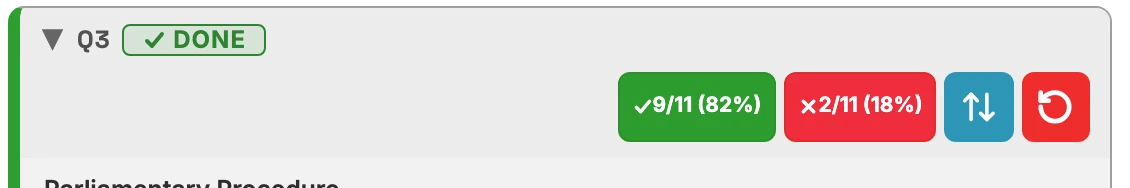
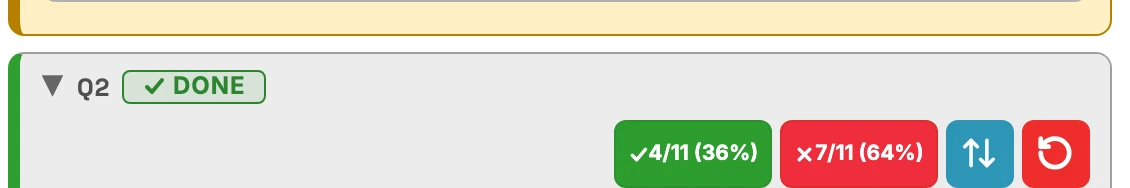
v1.29 Give Team Report its own section, rewritten as proper Q&A, and update the Crowd-Wisdom screenshot to a 4/11 vs 7/11 split

diff --git a/faq/index.html b/faq/index.html
@@ -257,6 +257,7 @@
         <a href="#wagers">Halftime &amp; Final Wager</a>
         <a href="#standings">Scores &amp; Standings</a>
         <a href="#final-results">Final Results &amp; Ties</a>
+        <a href="#team-report">Team Report</a>
         <a href="#craft-prize">Craft Prize Drawing</a>
         <a href="#exporting">Exporting</a>
         <a href="#autosave">Autosave &amp; Resume</a>
@@ -1049,15 +1050,115 @@
           </summary>
           <div class="faq-a">
             <p>
-              Tap/Click on the team's name — see <a href="#tips">Team Report</a> in Tips
-              &amp; Tricks.
+              Tap/Click on the team's name to open their
+              <a href="#team-report">Team Report</a> — a full round-by-round
+              breakdown, with the same Guess/Diff math this table uses
+              explained tile by tile.
+            </p>
+          </div>
+        </details>
+      </section>
+
+      <!-- ============================== TEAM REPORT ============================== -->
+      <section class="faq-section" id="team-report">
+        <h2 class="faq-section-title">Team Report</h2>
+        <p class="faq-section-sub">
+          A full round-by-round breakdown of exactly how one team's score
+          came together.
+        </p>
+
+        <details class="faq-item">
+          <summary>
+            <span class="faq-q-text">How do I open a team's Team Report?</span><span class="faq-q-arrow"
+              >▶</span
+            >
+          </summary>
+          <div class="faq-a">
+            <p>
+              Tap or click their name — this works
+              <em>almost everywhere</em> a team name appears: a round's
+              question rows, standings, Final Results, not just one dedicated
+              screen. It's the fastest way to answer "wait, how did they get
+              that score?" in the middle of a live game. Press
+              <strong>Esc</strong> to close it instead of hunting for the ✕ —
+              the same shortcut closes the Scores sidebar on mobile.
+            </p>
+          </div>
+        </details>
+
+        <details class="faq-item">
+          <summary>
+            <span class="faq-q-text">I tapped a name in the Scores sidebar and nothing like this
+            opened</span><span class="faq-q-arrow">▶</span>
+          </summary>
+          <div class="faq-a">
+            <p>
+              That's the one exception — a name in the
+              <strong>Scores</strong> sidebar itself doesn't open the Team
+              Report. Tapping it there sets, or clears, that team as the
+              Craft Beer Prize winner instead. See
+              <a href="#craft-prize">Craft Prize Drawing</a>.
+            </p>
+          </div>
+        </details>
+
+        <details class="faq-item">
+          <summary>
+            <span class="faq-q-text">What does each round in the breakdown show?</span><span class="faq-q-arrow"
+              >▶</span
+            >
+          </summary>
+          <div class="faq-a">
+            <p>
+              That question's wager, whether it was marked correct or
+              incorrect, and the team's running score right after it — round
+              by round, plus the bonus question tally and both wagers. If a
+              wager's wrong, this isn't where you fix it: close the report and
+              tap the wager button in the round itself instead.
+            </p>
+          </div>
+        </details>
+
+        <details class="faq-item">
+          <summary>
+            <span class="faq-q-text">What do the four tiles above the breakdown mean — Diff Adj, Adj.
+            Score, Diff, Score Guess?</span><span class="faq-q-arrow">▶</span>
+          </summary>
+          <div class="faq-a">
+            <p>
+              They walk through how a team's Grand Total gets compared to
+              their own Score Guess, in order, left to right:
+            </p>
+            <ul>
+              <li>
+                <strong>Diff Adj</strong> (Difference Adjustment) — the bonus
+                points coming back off: Bonus Item (+5) and NJCB (+3), if the
+                team had either.
+              </li>
+              <li>
+                <strong>Adj. Score</strong> (Adjusted Score) — the Grand Total
+                with those bonuses stripped back out.
+              </li>
+              <li>
+                <strong>Diff</strong> — Adj. Score measured against
+                <strong>Score Guess</strong>, what the team guessed their own
+                score would be at the start of the night. A plus (+) means
+                they guessed high, a minus (−) means they guessed low, and 0
+                means they called it exactly.
+              </li>
+            </ul>
+            <p>
+              The bonuses come off before that comparison so every team is
+              judged on the same bonus-free footing — a team that guessed
+              accurately but also happened to win a bonus item shouldn't come
+              out looking like a worse guesser than one who didn't.
             </p>
             <div class="faq-shot">
               <img
                 src="screenshots/score-audit.webp"
                 data-shot-base="score-audit"
-                alt="The Team Report modal open for one team, showing the round-by-round breakdown and Guess/Diff tiles"
-                onerror="faqShotFallback(this,'Team Report modal — full round-by-round breakdown for one team')"
+                alt="The Team Report modal open for one team, showing the round-by-round breakdown and the Diff Adj / Adj. Score / Diff / Score Guess tiles"
+                onerror="faqShotFallback(this,'Team Report modal — full round-by-round breakdown and the four summary tiles')"
               />
             </div>
           </div>
@@ -1748,65 +1849,6 @@
 
         <details class="faq-item">
           <summary>
-            <span class="faq-q-text">Tap any team's name to audit their score</span><span class="faq-q-arrow"
-              >▶</span
-            >
-          </summary>
-          <div class="faq-a">
-            <p>
-              This works <em>almost everywhere</em> a team name appears — a
-              round's question rows, standings, Final Results — not just one
-              dedicated screen. It opens a full breakdown: every question's
-              wager and correct/incorrect call, the running score after each
-              one, the bonus question tally, both wagers, and the same
-              Guess/Diff math Final Results uses, explained tile by tile. It's
-              the fastest way to answer "wait, how did they get that score?"
-              in the middle of a live game. Press <strong>Esc</strong> to
-              close it instead of hunting for the ✕ — same shortcut closes the
-              Scores sidebar on mobile.
-            </p>
-            <p>
-              The one exception: a name in the <strong>Scores</strong>
-              sidebar itself doesn't open this. Tapping it there sets — or
-              clears — that team as the Craft Beer Prize winner instead. See
-              <a href="#craft-prize">Craft Prize Drawing</a>.
-            </p>
-            <p>
-              The four tiles above the round-by-round breakdown, spelled out —
-              this is the same note the app shows right under them:
-            </p>
-            <p>
-              Each round shows that question's wager, whether it was marked
-              correct or incorrect, and the team's running score. To fix a
-              wrong wager, close this and tap the wager button in the round
-              itself.
-            </p>
-            <p>
-              <strong>Diff Adj (Difference Adjustment)</strong> is the Bonuses
-              coming back off — Bonus Item (+5) and NJCB (+3).
-              <strong>Adj. Score (Adjusted Score)</strong> is the Grand Total
-              with those stripped out. <strong>Diff</strong> is Adj. Score
-              measured against the team's Score Guess. A plus (+) means they
-              guessed high, a minus (−) means they guessed low, and 0 means
-              they called it exactly.
-            </p>
-            <p>
-              * Every team's guess is compared on the same bonus-free footing,
-              which is why the bonuses come off before the guess is scored.
-            </p>
-            <div class="faq-shot">
-              <img
-                src="screenshots/score-audit.webp"
-                data-shot-base="score-audit"
-                alt="The Team Report modal open for one team, showing the round-by-round breakdown and Guess/Diff tiles"
-                onerror="faqShotFallback(this,'Team Report modal — full round-by-round breakdown for one team')"
-              />
-            </div>
-          </div>
-        </details>
-
-        <details class="faq-item">
-          <summary>
             <span class="faq-q-text">Use the <svg class="icon-ui" viewBox="0 0 24 24" aria-hidden="true" focusable="false" data-emoji="↕"><path d="M7 4v16"></path><path d="m3 8 4-4 4 4"></path><path d="M17 20V4"></path><path d="m21 16-4 4-4-4"></path></svg> Sort button to find who still hasn't answered</span><span
               class="faq-q-arrow"
               >▶</span
@@ -1970,7 +2012,7 @@
             <p>
               Adds a live correct/incorrect percentage next to each question's
               Sort/Reset buttons — both counts together, e.g.
-              "<svg class="icon-mark" viewBox="0 0 24 24" aria-hidden="true" focusable="false" data-emoji="✅"><polyline points="5,13 10,18 20,6"></polyline></svg> 9/11 (82%)" and "<svg class="icon-mark" viewBox="0 0 24 24" aria-hidden="true" focusable="false" data-emoji="❌"><line x1="6" y1="6" x2="18" y2="18"></line><line x1="18" y1="6" x2="6" y2="18"></line></svg> 2/11 (18%)" — so you can see at a
+              "<svg class="icon-mark" viewBox="0 0 24 24" aria-hidden="true" focusable="false" data-emoji="✅"><polyline points="5,13 10,18 20,6"></polyline></svg> 4/11 (36%)" and "<svg class="icon-mark" viewBox="0 0 24 24" aria-hidden="true" focusable="false" data-emoji="❌"><line x1="6" y1="6" x2="18" y2="18"></line><line x1="18" y1="6" x2="6" y2="18"></line></svg> 7/11 (64%)" — so you can see at a
               glance how a question is trending without scrolling through every
               team's row.
             </p>
@@ -1978,7 +2020,7 @@
               <img
                 src="screenshots/crowd-wisdom-percentage.webp"
                 data-shot-base="crowd-wisdom-percentage"
-                alt="A question header with Crowd-Wisdom Percentage on, showing 9/11 (82%) correct and 2/11 (18%) incorrect next to the Sort and Reset buttons"
+                alt="A question header with Crowd-Wisdom Percentage on, showing 4/11 (36%) correct and 7/11 (64%) incorrect next to the Sort and Reset buttons"
                 onerror="faqShotFallback(this,'Question header with Crowd-Wisdom Percentage on — correct/incorrect counts next to Sort/Reset')"
               />
             </div>

diff --git a/faq/js/faq.js b/faq/js/faq.js
@@ -4,7 +4,7 @@
 // #versionLabel element. Here the same string feeds two spots — the page footer and the
 // Settings panel's settings-meta row — so bumping a release only means editing these two
 // constants instead of hunting down every place the version text is written out by hand.
-const FAQ_VERSION = "v1.28";
+const FAQ_VERSION = "v1.29";
 const FAQ_VERSION_DATE = "22 Aug 2026";
 
 // Same Lucide sun/moon geometry as the main app's THEME_ICON_SUN/MOON (js/app.js), tagged

diff --git a/faq/CHANGELOG.md b/faq/CHANGELOG.md
@@ -2,7 +2,23 @@
 
 All notable changes to the Scorekeeper FAQ site are documented here.
 
-## [1.28] - 22 Aug 2026
+## [1.29] - 22 Aug 2026
+
+### Added
+
+- **Team Report is its own top-level section now**, between Final Results & Ties and Craft Prize
+  Drawing, not an entry buried in Tips & Tricks. Split into four real Q&A items instead of one
+  long entry: how to open it, the Scores-sidebar exception, what each round in the breakdown
+  shows, and what the four summary tiles mean — rewritten as actual answers to actual questions
+  rather than the app's own compact modal note quoted verbatim. The Tips & Tricks entry this
+  replaces is gone; Final Results & Ties keeps a one-line pointer to the new section instead of
+  duplicating the whole explanation.
+
+### Changed
+
+- **The Crowd-Wisdom Percentage screenshot and example now show 4/11 (36%) / 7/11 (64%)**, not
+  9/11 (82%) / 2/11 (18%) — a question where incorrect actually outnumbers correct, a clearer
+  demonstration of the split than one side being a near-sweep.
 
 ### Fixed
 
